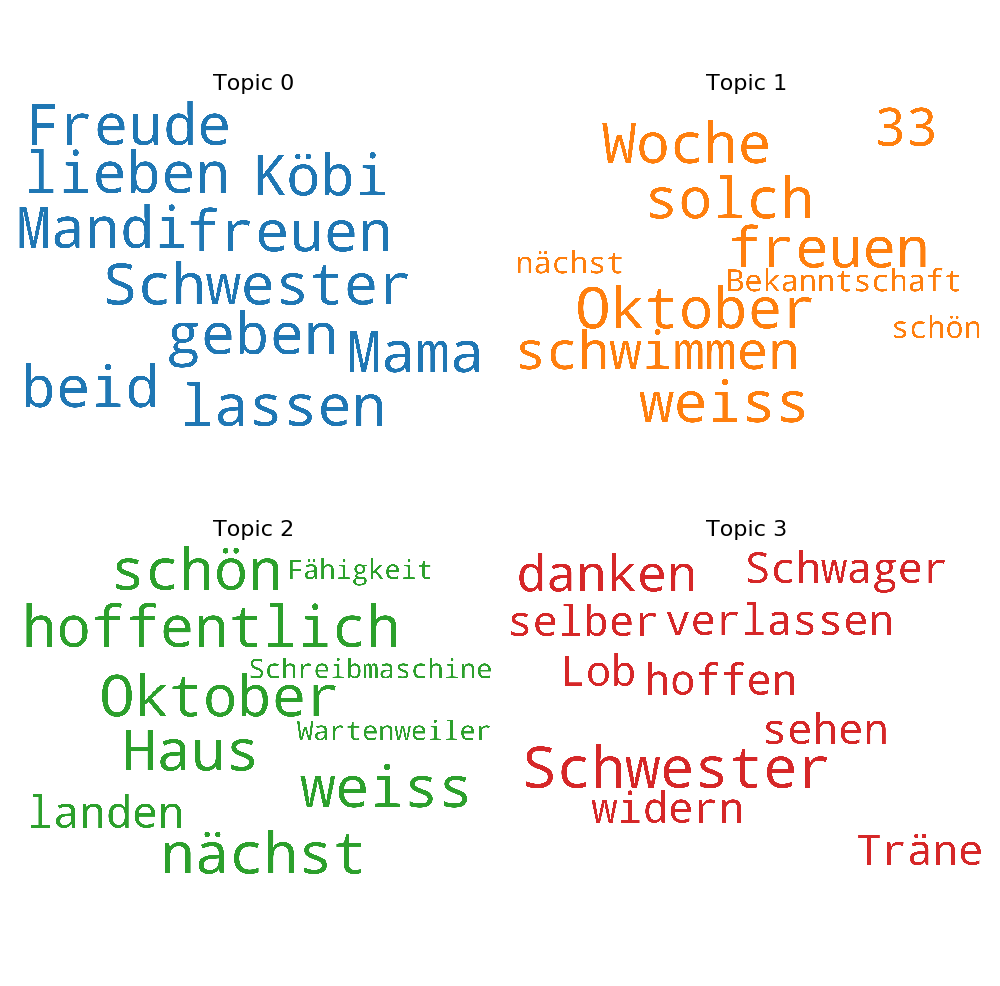
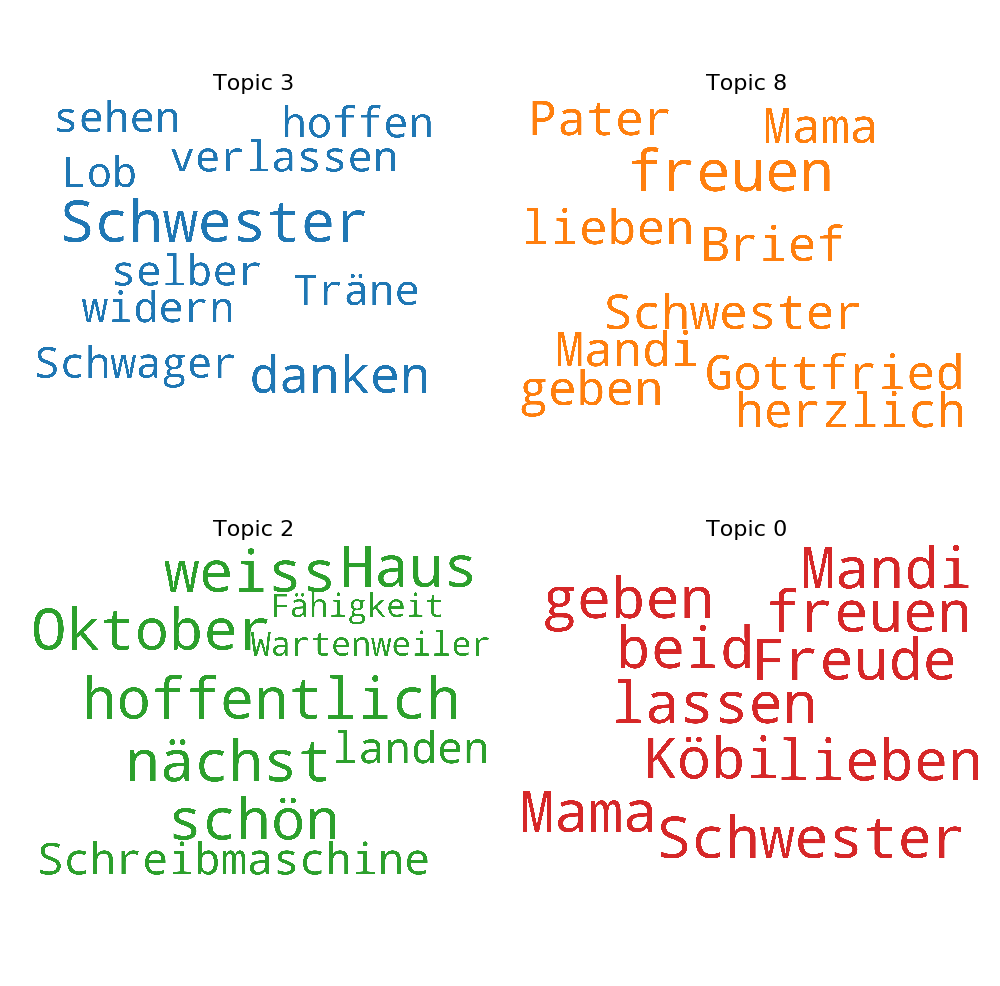
apply change to generate word cloud

diff --git a/topic_modeling.py b/topic_modeling.py
@@ -131,12 +131,14 @@ topics = lda_model.show_topics(formatted=False)
 
 fig, axes = plt.subplots(2, 2, figsize=(10,10), sharex=True, sharey=True)
 
+topic_list = [3, 8, 2, 0]
+
 for i, ax in enumerate(axes.flatten()):
     fig.add_subplot(ax)
-    topic_words = dict(topics[i][1])
+    topic_words = dict(topics[topic_list[i]][1])
     cloud.generate_from_frequencies(topic_words, max_font_size=300)
     plt.gca().imshow(cloud)
-    plt.gca().set_title('Topic ' + str(i), fontdict=dict(size=16))
+    plt.gca().set_title('Topic ' + str(topic_list[i]), fontdict=dict(size=16))
     plt.gca().axis('off')
 
 
